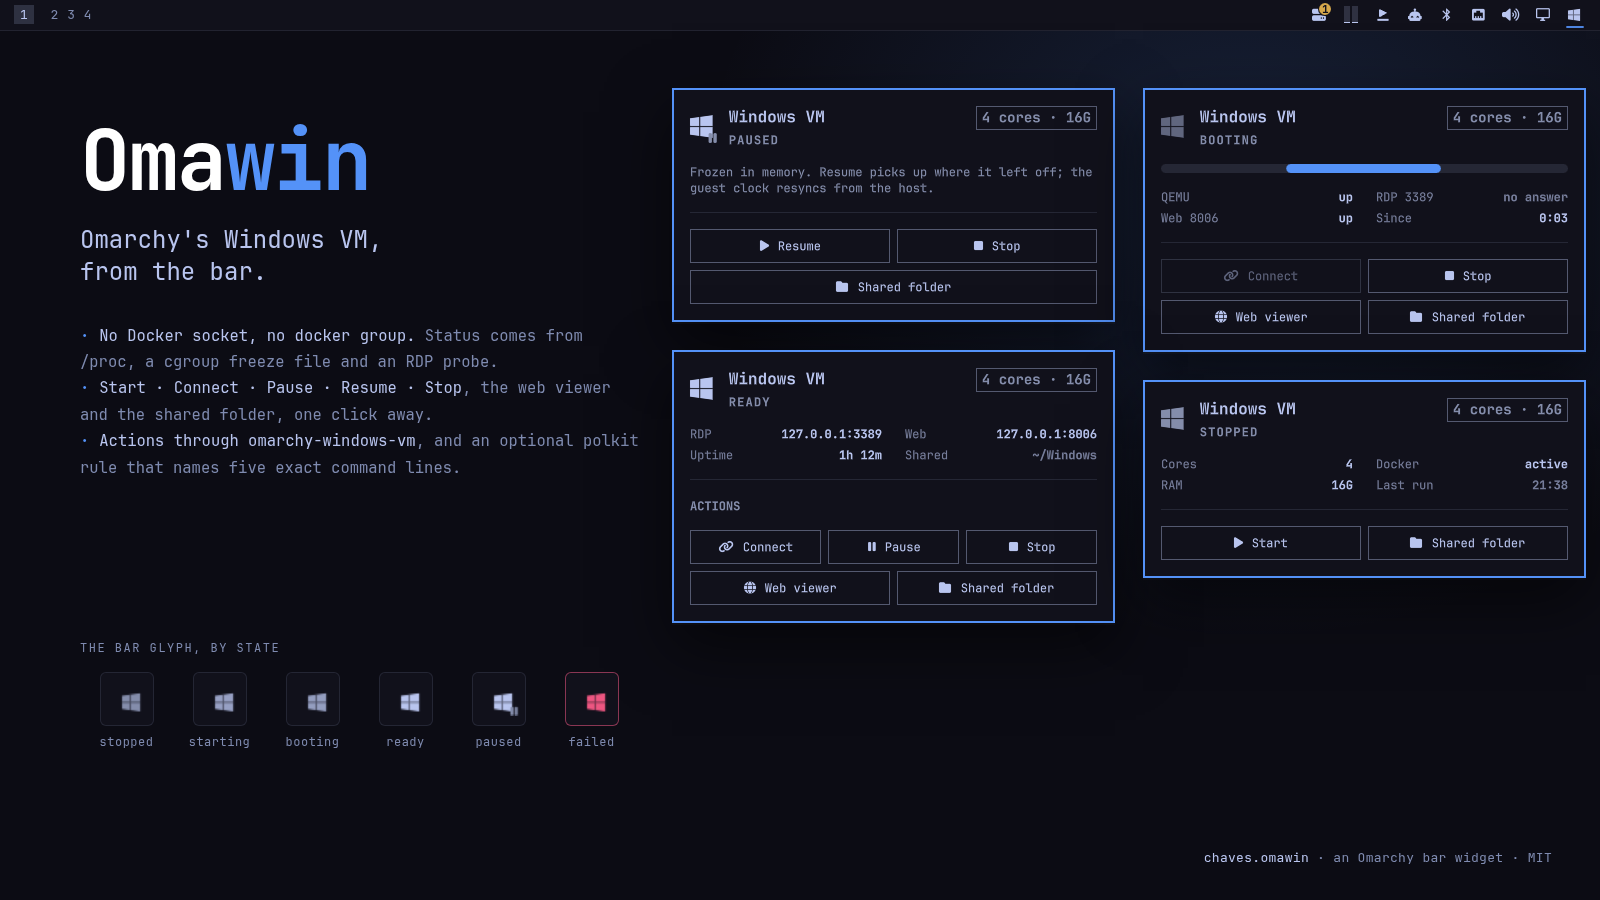
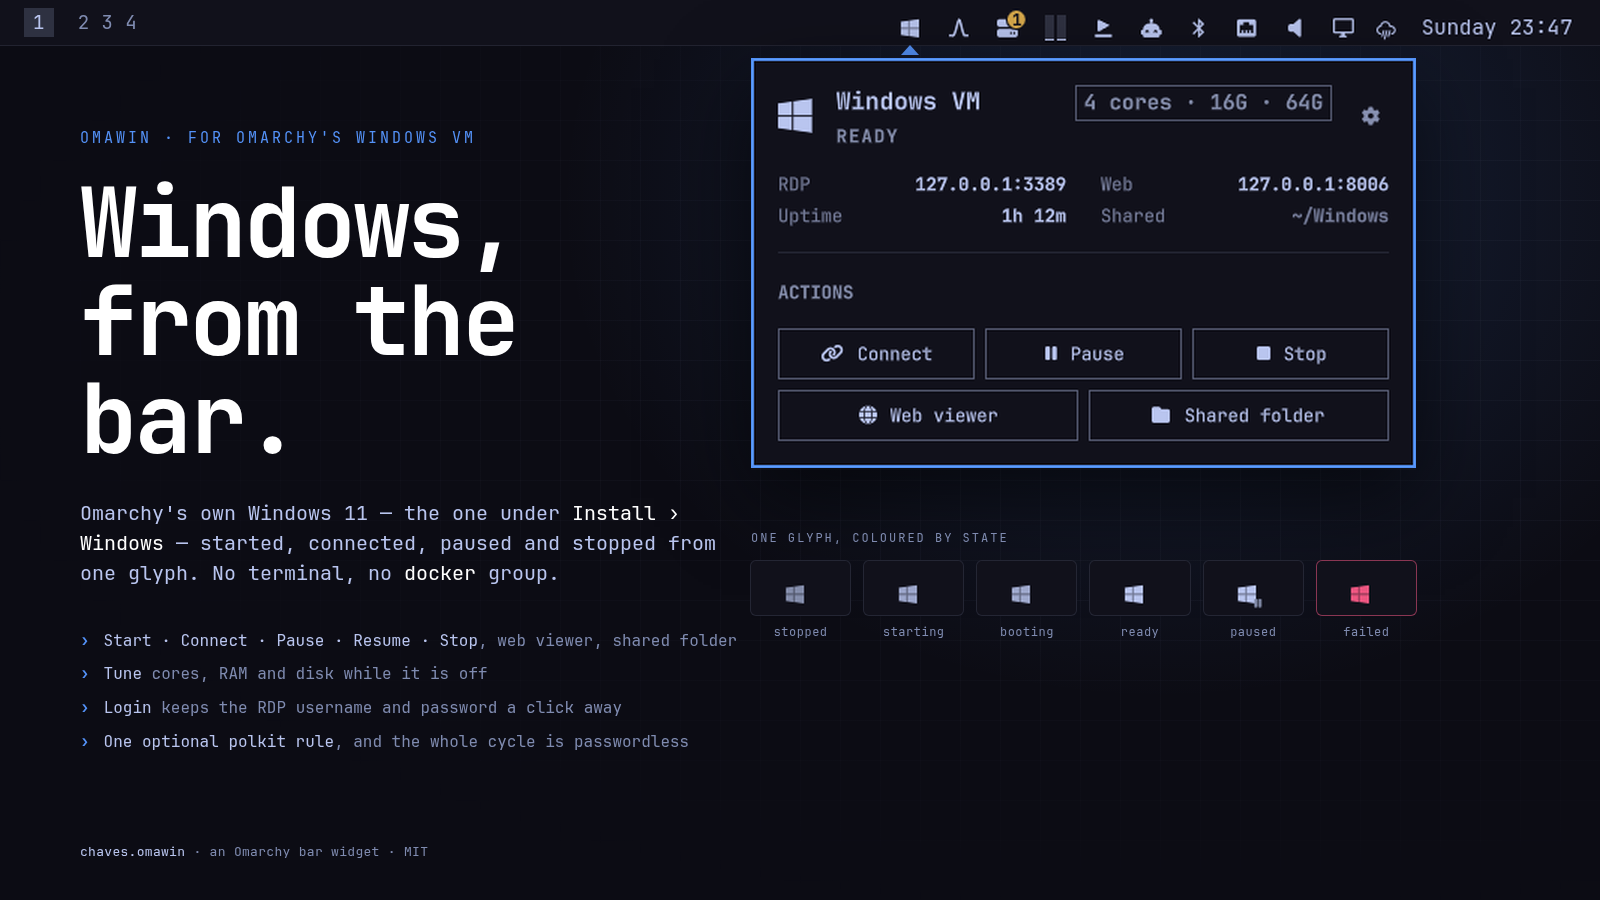
README and cover for the marketplace: Windows, from the bar
The marketplace detail page shows only the manifest description, the
preview and the tags, and its grid shows the preview at about 350x175 —
so the cover now carries one headline that survives that size, the real
ready card hanging off its glyph in the real bar, and the glyph in its
six states; and the manifest description is the sales pitch rather than
a description of /proc.

The README opens for a user now — what it is, what you need, install,
update, remove, then the glyph, the card and the Tune, Login and Settings
faces with screenshots — and keeps every technical section as it was
under "Under the hood" and "Developing", where the marketplace's
reviewer (the baseline flags privilege, service-management and installer
capabilities, which is what this widget is) will look for it. Adds the
"Built for Omarchy: Plugin" badge, pinned to a commit.

Panel.qml gains a third debug IPC, `face <name>`, which goes through the
same openFace() the buttons use so the sub-faces can be shown — and
shot — without pressing through to them. The shoot itself lives next to
the mockup in the plans folder.

Claude-Session: https://claude.ai/code/session_012647m3sU6kGKqATndNRqZ8

diff --git a/Panel.qml b/Panel.qml
@@ -328,6 +328,17 @@ Panel {
       else service.fail(text)
       return service.state + " " + service.failedMessage
     }
+    // Debug only: show one of the card's faces — live, tune, login,
+    // updatePassword or settings — without pressing through to it, the way
+    // `mock` reaches every state. It goes through the same openFace() the
+    // buttons use, so the face is seeded the way a press would seed it; the
+    // two faces that rewrite the compose still close themselves when the VM
+    // is not stopped, and nothing runs. Anything else means "live".
+    function face(name: string): string {
+      var faces = ["live", "tune", "login", "updatePassword", "settings"]
+      root.openFace(faces.indexOf(String(name)) >= 0 ? String(name) : "live")
+      return root.face
+    }
   }
 
   // ---------------------------------------------------------- the bar glyph

diff --git a/README.md b/README.md
@@ -1,27 +1,46 @@
+<p align="center"><img src="preview.png" alt="Omawin: Windows, from the bar. The bar glyph, the ready card with Connect, Pause, Stop, the web viewer and the shared folder, and the glyph in each of its six states" width="800"></p>
+
 # Omawin
 
-<p align="center"><img src="preview.png" alt="Omawin: the bar glyph and the popup card of Omarchy's Windows VM in its ready, paused, booting and stopped states" width="800"></p>
+[![Built for Omarchy: Plugin](https://raw.githubusercontent.com/tcballard/omarchy-badges/75975e5b5bf75e7ede3764bcd2950046f7abfe2c/badges/v1/omarchy-plugin.svg)](https://github.com/tcballard/omarchy-badges)
 
-`chaves.omawin` is an Omarchy bar widget for Omarchy's Docker-based Windows
-VM that needs no access to the Docker socket: status comes from `/proc`, a
-cgroup freeze file and a TCP probe of the guest's RDP port, actions go through
-Omarchy's own `omarchy-windows-vm` helper, and the few privileged calls are
-auto-approved by an optional polkit rule scoped to their exact command
-lines. Nobody has to join the `docker` group.
+**Windows, from the bar.** Omarchy ships a Windows 11 VM — *Install › Windows*
+in the Omarchy menu — and gives you a launcher entry to open it. Omawin is the
+rest of the control panel: one glyph in the bar that says whether Windows is
+up, and a card with **Start, Connect, Pause, Resume, Stop**, the web viewer and
+the shared folder. Behind it, **Tune** changes the VM's cores, RAM and disk,
+**Login** keeps the RDP username and password a click away, and **Settings**
+turns the optional passwordless rule on and off.
 
-One glyph in the bar, coloured by state, with a pulse while the VM comes up or
-goes down and a badge while it is paused. Middle click starts or connects.
-The popup card has one face per state — not installed, stopped, starting,
-booting, ready, paused, stopping, failed — with the buttons that make sense
-there: Start, Connect, Pause, Resume, Stop, Web viewer, Shared folder,
-Install. The tooltip carries the state, the VM's shape and its uptime.
+It does all of that without the Docker socket. Omarchy keeps you out of the
+`docker` group on purpose (that group is root-equivalent), so the widget reads the VM's
+state from `/proc`, a cgroup freeze file and a knock on the RDP port, and acts
+through Omarchy's own `omarchy-windows-vm` helper — the same thing the launcher
+entry runs. Nothing to join, nothing to configure.
 
-Three more faces sit behind it. **Tune** changes the VM's cores, RAM and disk
-while it is off, through the one privileged action Omarchy's own installer ends
-on, with the login passed back unchanged. **Login** shows the stored RDP
-username and password — reveal for 15 s, copy for 30 s — and writes a new
-password down after you have changed it inside Windows. **Settings**, behind the
-gear in the card's title, is where the optional polkit rule goes on and off.
+## Contents
+
+- [What you need](#what-you-need)
+- [Install](#install), [Update](#update), [Remove](#remove)
+- [Using it](#using-it): [the glyph](#the-glyph), [the card](#the-card),
+  [Tune](#tune), [Login](#login), [Settings](#settings)
+- [Under the hood](#under-the-hood): [what it runs, reads and writes](#what-it-runs-reads-and-writes),
+  [Pause and Resume](#pause-and-resume), [the cache](#cache),
+  [tuning the VM](#tuning-the-vm), [the polkit rule](#polkit-rule)
+- [Developing](#developing), [License](#license)
+
+## What you need
+
+- **Omarchy 4** (Quattro) with its Quickshell shell — built and tested against
+  4.0.3 and the `omarchy-windows-vm` it ships. The widget leans on that
+  helper's internal entry points, so an Omarchy release that changes them
+  will need a widget update; `omarchy plugin update` is how that arrives.
+- **Omarchy's Windows VM.** Not installed yet? The card has an Install button
+  that runs Omarchy's own installer in a floating terminal, or use
+  *Install › Windows* from the Omarchy menu. It downloads Windows 11 and takes a
+  while; the web viewer shows the progress.
+
+Nothing else: no packages, no `docker` group, no edits to your config.
 
 ## Install
 
@@ -29,17 +48,116 @@ gear in the card's title, is where the optional polkit rule goes on and off.
 omarchy plugin add https://github.com/diogochaves/omarchy-omawin --enable
 ```
 
-It needs Omarchy's Windows VM, which is `omarchy-windows-vm install` from a
-terminal or the Install button on the card. Placement is
-`omarchy bar move chaves.omawin --section right --after omarchy.tray`, updates are
-`omarchy plugin update chaves.omawin`.
+Then look for the Windows glyph in the bar. To put it somewhere specific:
 
-The widget is complete as installed. Every privileged step — starting,
-stopping, pausing — raises Omarchy's authentication dialog, once per press,
-until you install the optional polkit rule described below, which the card's
-Settings face will do for you. Tune and Update password keep asking either way.
+```sh
+omarchy bar move chaves.omawin --section right --after omarchy.tray
+```
 
-## What it runs, reads and writes
+That is the whole install. Every privileged step — starting, stopping,
+pausing — raises Omarchy's authentication dialog, once per press, until you
+turn on the optional polkit rule from the card's Settings face
+([below](#settings)). Tune and Update password ask either way.
+
+## Update
+
+```sh
+omarchy plugin update chaves.omawin
+```
+
+## Remove
+
+```sh
+omarchy plugin remove chaves.omawin
+```
+
+
+```sh
+omarchy plugin remove chaves.omawin
+```
+
+What can stay behind, and how to take it out:
+
+| Artifact | After removal | To remove it |
+|----------|---------------|--------------|
+| `~/.local/state/omawin/state.json` (`$XDG_STATE_HOME/omawin/`) | kept | `rm -r ~/.local/state/omawin` |
+| `/etc/polkit-1/rules.d/49-omawin.rules` — only if you ran `setup` | kept | `sudo ./setup polkit --remove` **before** removing the plugin, or `sudo rm /etc/polkit-1/rules.d/49-omawin.rules` after |
+| `~/.local/state/omawin/49-omawin.rules` — the user-owned copy `setup` leaves so the Settings switch can read the rule's state | kept | taken out by the same `sudo ./setup polkit --remove`, or `rm ~/.local/state/omawin/49-omawin.rules` |
+| the transient unit `omawin-launch.service` | exists only while an RDP window is open; gone when it closes | `systemctl --user stop omawin-launch` |
+
+Nothing else: no packages, no hooks, no edits to Hyprland or shell config.
+The VM itself is Omarchy's and is not touched by removing the widget.
+
+## Using it
+
+### The glyph
+
+<p><img src="docs/glyphs.png" alt="The bar glyph in its six states: stopped, starting, booting, ready, paused, failed" width="590"></p>
+
+One Windows mark, coloured by state: dimmed while the VM is off, lit when it
+is ready, pulsing while it comes up or goes down, badged while it is paused,
+red when something failed. Hover for the state, the VM's shape and its uptime.
+**Left click** opens the card; **middle click** is the shortcut — Start when
+the VM is off, Connect when it is up.
+
+### The card
+
+<p><img src="docs/card-states.png" alt="The card in each state: stopped, starting, booting, ready, paused, failed" width="800"></p>
+
+One face per state, with only the buttons that make sense there:
+
+- **Stopped** — Start, Tune…, Shared folder, and the shape the next start will
+  use.
+- **Starting** — the container is coming up; Omarchy may ask for
+  authorisation.
+- **Booting** — QEMU is up and the card waits for Windows to answer on RDP.
+  The web viewer already works here, which is where you watch a first install.
+- **Ready** — Connect opens the RDP window (Omarchy's own launcher, in a user
+  unit, so it survives a bar reload). Pause, Stop, Web viewer, Shared folder.
+- **Paused** — frozen in memory, using no CPU. Resume picks up where it left
+  off and reopens the window. Stop unpauses first, so Windows shuts down
+  cleanly.
+- **Failed** — what went wrong, in the widget's words, and the launch log
+  behind it. The next successful action clears it.
+
+*Web viewer* opens `http://127.0.0.1:8006`, the VM's console in the browser;
+*Shared folder* opens `~/Windows`, which the guest sees as a network drive.
+
+### Tune
+
+<p><img src="docs/face-tune.png" alt="The Tune face: cores, RAM and disk chips, with the host's limits" width="443"></p>
+
+Cores up to what the machine has, RAM from the installer's own list up to
+what fits, disk in the same steps — grow only, because the VM's disk image
+cannot shrink. Apply writes the new shape through the one privileged action
+Omarchy's installer itself ends on, with your login passed back unchanged, so
+nothing is re-downloaded and the Windows account is untouched. One
+authorisation. The VM has to be off; the new shape is used by the next Start.
+
+### Login
+
+<p><img src="docs/face-login.png" alt="The Login face: username, a masked password, Reveal and Copy" width="443"></p>
+
+The RDP username and password Omarchy stored at install, for when the RDP
+client or the web viewer asks. **Reveal** shows the password for 15 seconds,
+**Copy** puts it on the clipboard for 30. Changed the password *inside*
+Windows? **Update password…** writes the new one down so Connect keeps working
+(VM off, one authorisation).
+
+### Settings
+
+<p><img src="docs/face-settings.png" alt="The Settings face: the passwordless-actions switch, the rule it installs, and where things live" width="443"></p>
+
+Behind the gear in the card's title. The switch installs or removes an
+optional polkit rule that lets Start, Stop, Pause and Resume run without a
+dialog — for you only, for exactly the five command lines shown on the face,
+and nothing else. It runs `sudo` in a floating terminal, shows you the file,
+and asks before writing it. Tune and Update password keep asking on purpose;
+see [Polkit rule](#polkit-rule) for what it says and why.
+
+## Under the hood
+
+### What it runs, reads and writes
 
 - **Reads**, unprivileged: `/proc/<pid>/{comm,cgroup,cmdline,stat}` of the
   QEMU process to find it and its `-smp`/`-m`, `/proc/stat` for `btime`, the
@@ -72,7 +190,7 @@ Settings face will do for you. Tune and Update password keep asking either way.
   Every command is a constant with an absolute path; nothing is built from
   data, and no password is ever an argument — `/proc/<pid>/cmdline` is
   world-readable, so the password goes in on stdin or not at all.
-- **Writes**: `$XDG_STATE_HOME/omawin/state.json` (see *Cache*),
+- **Writes**: `$XDG_STATE_HOME/omawin/state.json` (see [Cache](#cache)),
   `~/.config/windows/credentials` when you save a new password (rewritten
   atomically, 0600, exactly as `omarchy-windows-vm` writes it), and
   `/var/lib/omarchy/windows/docker-compose.yml` — by asking root to, through
@@ -85,25 +203,7 @@ Settings face will do for you. Tune and Update password keep asking either way.
   purpose, from a terminal — and it does **not** cover `write_compose`, so Tune
   and Update password ask every time.
 
-## Remove
-
-```sh
-omarchy plugin remove chaves.omawin
-```
-
-What can stay behind, and how to take it out:
-
-| Artifact | After removal | To remove it |
-|----------|---------------|--------------|
-| `~/.local/state/omawin/state.json` (`$XDG_STATE_HOME/omawin/`) | kept | `rm -r ~/.local/state/omawin` |
-| `/etc/polkit-1/rules.d/49-omawin.rules` — only if you ran `setup` | kept | `sudo ./setup polkit --remove` **before** removing the plugin, or `sudo rm /etc/polkit-1/rules.d/49-omawin.rules` after |
-| `~/.local/state/omawin/49-omawin.rules` — the user-owned copy `setup` leaves so the Settings switch can read the rule's state | kept | taken out by the same `sudo ./setup polkit --remove`, or `rm ~/.local/state/omawin/49-omawin.rules` |
-| the transient unit `omawin-launch.service` | exists only while an RDP window is open; gone when it closes | `systemctl --user stop omawin-launch` |
-
-Nothing else: no packages, no hooks, no edits to Hyprland or shell config.
-The VM itself is Omarchy's and is not touched by removing the widget.
-
-## Pause and Resume
+### Pause and Resume
 
 Pause is `docker pause`: a cgroup freeze, so the guest stops using CPU but
 keeps its RAM, and the compose's `-rtc base=localtime,clock=host,driftfix=slew`
@@ -125,7 +225,7 @@ then `omarchy-windows-vm stop`, and an unpause that fails aborts the stop
 instead of leaving it to time out. Every button, Stop included, is disabled
 while a pause or unpause is in flight.
 
-## Cache
+### Cache
 
 `$XDG_STATE_HOME/omawin/state.json` (`~/.local/state/omawin/state.json` by
 default) holds one object written from the last running sample:
@@ -152,7 +252,7 @@ dropped again the moment QEMU appears — at which point the live sample is the
 truth. `disk` is only a fallback for `~/.windows/data.img`, which is readable
 whether or not the VM runs.
 
-## Tuning the VM
+### Tuning the VM
 
 What a "normal" VM offers and how to get it here, as far as Omarchy's helper
 allows. The first three rows are the widget's **Tune** face now; the rest still
@@ -166,13 +266,13 @@ is not widget work, and it does not pretend otherwise:
 | Change the RDP password | **Login › Update password…** | Only after you have changed it *inside* Windows: this writes down what the machine sends, it cannot rename or re-password a Windows account. Rewrites the credentials file and, in the same breath, the compose's fallback copy of it — so stopped only, one authorisation. |
 | Anything else dockur supports (KEYBOARD, REGION, LANGUAGE, DISK2_SIZE, extra ports, `/dev/bus/usb`, DHCP/macvlan networking) | `sudo` edit of `/var/lib/omarchy/windows/docker-compose.yml`, then stop/start | `assert_mounts_safe` only checks owner/mode, the two bind lines and `PROTECT`; extra keys survive. **The next `install` run overwrites them.** Keep a copy. |
 | Snapshot / rollback (VM off) | `cp -a --reflink=always ~/.windows ~/.windows.snap-<date>` | On btrfs a reflink copy is instant and free until blocks diverge. Rollback = copy back while stopped. User-owned, no root. |
-| Suspend to RAM | Pause | A cgroup freeze; see above. The guest clock resyncs on resume. |
+| Suspend to RAM | Pause | A cgroup freeze; see [Pause and Resume](#pause-and-resume). The guest clock resyncs on resume. |
 | Suspend to disk | Not from outside | `savevm` needs qcow2 and the monitor. Windows' own Hibernate from inside the guest is untested. |
 | Second VM | Not with the helper | Own compose, other ports, outside Omarchy. |
 | Autostart at login | Not by default | Possible with the polkit rule plus a user unit that runs `omarchy-windows-vm launch -k`. |
 | Logs / console | Web viewer on 8006 | `docker logs` needs the socket. |
 
-## Polkit rule
+### Polkit rule
 
 Optional, and now a switch: **Settings** on the card (the gear in its title)
 shows the rule in full, says whether it is installed and for whom, and turns it
@@ -256,7 +356,7 @@ pkexec /usr/bin/omarchy-windows-vm __priv write_compose </dev/null  # prompts
 
 `sudo ./setup polkit --status` says which rules are installed and who they
 name; `sudo ./setup polkit --remove` takes both back out. The rule is not
-removed by `omarchy plugin remove`: see *Remove* above.
+removed by `omarchy plugin remove`: see [Remove](#remove).
 
 ## Developing
 
@@ -288,9 +388,10 @@ of it — and the tests create it themselves if it is missing).
 | `status` | one line: the painted state, the `vm-state.sh` line behind it and the bar tooltip, e.g. `stopped installed=1 docker=active pid= frozen= cores= ram= web=000 cid= started= disk=64G login=chaves \| Windows VM · STOPPED · 4 cores · 16G · 64G` |
 | `fail <text>` | **debug.** Paints the failed card with `<text>` as the message, without breaking anything to get there. Sticky like a real failure — cleared by the next successful action or state change, or at once with `fail ""`. |
 | `mock <line> [probe] [action]` | **debug.** Stands `<line>` in for `vm-state.sh`, `probe` (`ok`/`no`) in for the RDP probe and `action` (`start`/`stop`) in for a pending transient, so every face of the card can be looked at with the VM switched off. `mock "" "" ""` (all three arguments are required by the IPC) hands the widget back to the real sampler and drops the mocked transient. |
+| `face <name>` | **debug.** Shows one face of the card — `live`, `tune`, `login`, `updatePassword` or `settings` — seeded the way a press would seed it, so the sub-faces can be looked at (and screenshotted) without pressing through to them. Anything else means `live`. The two faces that rewrite the compose still close themselves when the VM is not stopped. |
 
-The two debug methods only paint: a mocked line never reaches the cache file
-and neither method runs a command. Text given to them is capped and stripped
+The three debug methods only paint: a mocked line never reaches the cache file
+and none of them runs a command. Text given to them is capped and stripped
 of control characters like any helper output.
 
 ### Test hooks
@@ -348,4 +449,6 @@ a program to run: the unit name and every command line are constants.
   — the rule that makes the cycle passwordless, its probe, and the script that
   shows and installs them.
 
-MIT licensed.
+## License
+
+MIT.
